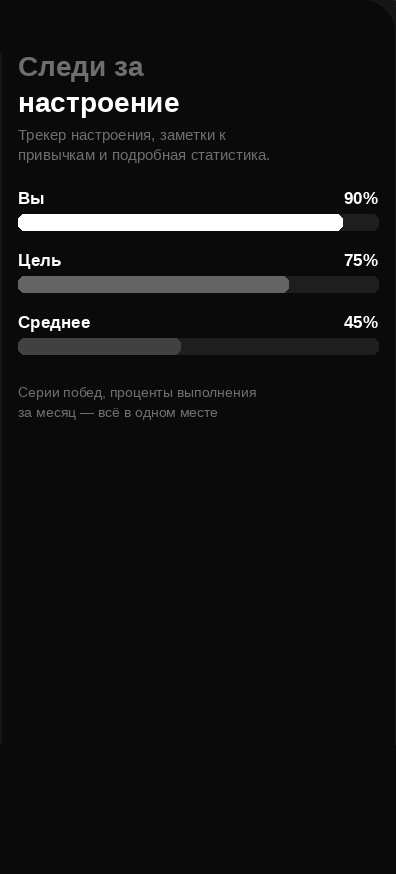
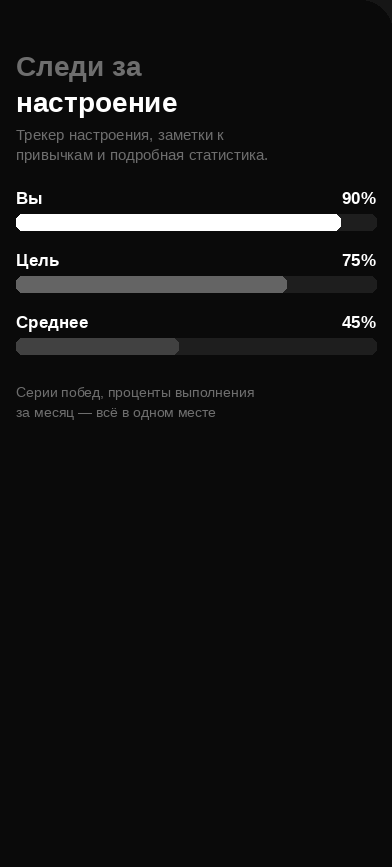
feat(web): premium hero — floating feature chips + cleaner device frames
- re-crop screenshots strictly to the screen interior (no source bezel
  arc), so the CSS device frame no longer shows a frame-in-frame edge
- bigger, more prominent main phone; side phones pushed back, blurred
  and dimmed for depth
- floating glass chips around the phone (streak / partner done / mood /
  achievements) with entrance + float animation, à la reference designs
- nicer frame: dynamic island, side buttons, animated screen sheen
- chips hidden below 1080px and on mobile to avoid overlap

diff --git a/web/index.html b/web/index.html
@@ -73,15 +73,36 @@ img{max-width:100%;display:block}
 .btn-lg{padding:16px 28px;font-size:16px}
 
 /* ---------- device frame ---------- */
-.device{position:relative;width:var(--dw,280px);aspect-ratio:396/874;border-radius:42px;
-  background:var(--bezel);padding:9px;
-  box-shadow:0 34px 70px rgba(0,0,0,.55),0 6px 18px rgba(0,0,0,.4),inset 0 1px 1px rgba(255,255,255,.08)}
-.device::before{content:"";position:absolute;top:8px;left:50%;transform:translateX(-50%);
-  width:34%;height:5px;border-radius:3px;background:rgba(255,255,255,.07);z-index:3}
-.device .screen{width:100%;height:100%;border-radius:33px;overflow:hidden;background:#0a0a0a;position:relative}
+.device{position:relative;width:var(--dw,280px);aspect-ratio:392/867;border-radius:46px;
+  background:var(--bezel);padding:10px;
+  box-shadow:0 40px 80px rgba(0,0,0,.6),0 8px 22px rgba(0,0,0,.45),inset 0 1px 1px rgba(255,255,255,.1)}
+/* side buttons */
+.device::before{content:"";position:absolute;left:-2px;top:24%;width:3px;height:46px;border-radius:3px;
+  background:var(--border2);box-shadow:0 64px 0 var(--border2)}
+.device .screen{width:100%;height:100%;border-radius:38px;overflow:hidden;background:#0a0a0a;position:relative}
 .device .screen img{width:100%;height:100%;object-fit:cover;object-position:top center}
-.device .glare{position:absolute;inset:0;border-radius:33px;pointer-events:none;
-  background:linear-gradient(135deg,rgba(255,255,255,.10),transparent 35%);mix-blend-mode:screen}
+/* dynamic island */
+.device .screen::after{content:"";position:absolute;top:9px;left:50%;transform:translateX(-50%);
+  width:30%;height:9px;border-radius:6px;background:#000;z-index:3;opacity:.55}
+.device .glare{position:absolute;inset:0;border-radius:38px;pointer-events:none;overflow:hidden}
+.device .glare::before{content:"";position:absolute;top:-60%;left:-30%;width:60%;height:220%;
+  transform:rotate(18deg);background:linear-gradient(90deg,transparent,rgba(255,255,255,.13),transparent);
+  animation:sweep 7s ease-in-out infinite}
+@keyframes sweep{0%,100%{left:-40%}50%{left:120%}}
+
+/* floating glass chips around hero phone */
+.chip{position:absolute;z-index:6;display:inline-flex;align-items:center;gap:10px;
+  background:color-mix(in srgb,var(--bg2) 86%,transparent);border:1px solid var(--border2);
+  border-radius:15px;padding:10px 14px;font-size:13.5px;font-weight:600;color:var(--text);
+  white-space:nowrap;backdrop-filter:blur(8px);
+  box-shadow:0 18px 40px rgba(0,0,0,.5),inset 0 1px 0 rgba(255,255,255,.06);
+  opacity:0;animation:chipin .8s var(--ease) forwards,floatY 6s ease-in-out infinite}
+.chip .ic{width:30px;height:30px;border-radius:9px;display:grid;place-items:center;font-size:15px;
+  background:var(--accent-soft);color:var(--accent);flex-shrink:0}
+.chip b{font-weight:700}.chip small{display:block;font-size:11px;color:var(--text3);font-weight:500;margin-top:1px}
+@keyframes chipin{from{opacity:0;transform:translateY(16px) scale(.95)}to{opacity:1;transform:none}}
+@keyframes floatY{0%,100%{transform:translateY(0)}50%{transform:translateY(-12px)}}
+@media(max-width:1080px){.chip{display:none}}
 
 /* ---------- nav ---------- */
 header.nav{position:fixed;top:0;left:0;right:0;z-index:50;
@@ -120,12 +141,12 @@ h1{font-size:clamp(40px,7vw,76px);font-weight:900;letter-spacing:-.035em;line-he
 .hero-note{margin-top:18px;font-size:13px;color:var(--text3)}
 
 /* hero stage with layered devices */
-.stage{position:relative;height:640px;margin-top:24px}
+.stage{position:relative;height:700px;margin-top:24px}
 .dev-pos{position:absolute;left:50%;transition:transform .3s var(--ease);
   transform:translate(calc(-50% + var(--tx,0px)),var(--ty,0px)) rotate(var(--rot,0deg))}
-.p-main{--rot:0deg;z-index:3;top:10px}
-.p-left{--rot:-8deg;z-index:2;margin-left:-280px;top:96px;opacity:.92}
-.p-right{--rot:8deg;z-index:2;margin-left:280px;top:96px;opacity:.92}
+.p-main{--rot:0deg;z-index:3;top:14px}
+.p-left{--rot:-10deg;z-index:1;margin-left:-300px;top:150px;opacity:.45;filter:blur(2px)}
+.p-right{--rot:10deg;z-index:1;margin-left:300px;top:150px;opacity:.45;filter:blur(2px)}
 .p-left .device,.p-right .device{box-shadow:0 30px 60px rgba(0,0,0,.6)}
 .floaty{animation:float 6s ease-in-out infinite}
 .p-left .floaty{animation-duration:7s;animation-delay:.4s}
@@ -245,10 +266,10 @@ footer{border-top:1px solid var(--border);padding:56px 0 40px;margin-top:40px}
   .cards{grid-template-columns:1fr}.steps{grid-template-columns:1fr}.steps::before{display:none}
   .cta-band{grid-template-columns:1fr;padding:36px 24px;text-align:center}
   .cta-band .hero-cta{justify-content:center}.cta-img{display:none}
-  .stage{height:560px;display:flex;justify-content:center}
-  .p-left,.p-right{display:none}
+  .stage{height:600px;display:flex;justify-content:center}
+  .p-left,.p-right,.chip{display:none}
   .p-main{position:relative;left:auto;margin:0 auto;top:0;transform:none}
-  .p-main .device{--dw:270px!important}
+  .p-main .device{--dw:275px!important}
   .mobile-menu{position:fixed;inset:64px 0 auto 0;background:var(--bg);border-bottom:1px solid var(--border);
     z-index:49;display:none;flex-direction:column;padding:18px 24px 28px}
   .mobile-menu.open{display:flex}
@@ -297,9 +318,17 @@ footer{border-top:1px solid var(--border);padding:56px 0 40px;margin-top:40px}
     </div>
     <div class="hero-note reveal" style="transition-delay:.24s" data-i18n="hero_note">Бесплатно · Гостевой режим без регистрации</div>
     <div class="stage" id="stage">
-      <div class="dev-pos p-left" data-depth="12"><div class="device floaty" style="--dw:205px"><div class="screen"><img src="img/phone-habits.png" alt=""/><span class="glare"></span></div></div></div>
-      <div class="dev-pos p-right" data-depth="12"><div class="device floaty" style="--dw:205px"><div class="screen"><img src="img/phone-mood.png" alt=""/><span class="glare"></span></div></div></div>
-      <div class="dev-pos p-main" data-depth="22"><div class="device floaty" style="--dw:280px"><div class="screen"><img src="img/phone-today.png" alt="PathTogether — сегодня"/><span class="glare"></span></div></div></div>
+      <div class="dev-pos p-left" data-depth="10"><div class="device floaty" style="--dw:200px"><div class="screen"><img src="img/phone-habits.png" alt=""/><span class="glare"></span></div></div></div>
+      <div class="dev-pos p-right" data-depth="10"><div class="device floaty" style="--dw:200px"><div class="screen"><img src="img/phone-mood.png" alt=""/><span class="glare"></span></div></div></div>
+      <div class="dev-pos p-main" data-depth="20"><div class="device floaty" style="--dw:300px"><div class="screen"><img src="img/phone-today.png" alt="PathTogether — сегодня"/><span class="glare"></span></div></div></div>
+      <div class="chip" style="top:78px;left:5%;animation-delay:.2s" data-depth="46">
+        <span class="ic">🔥</span><span><b data-i18n="chip_streak_t">Серия 7 дней</b><small data-i18n="chip_streak_s">вместе с Анной</small></span></div>
+      <div class="chip" style="top:360px;left:0%;animation-delay:.5s" data-depth="60">
+        <span class="ic">✓</span><span><b data-i18n="chip_partner_t">Анна выполнила</b><small data-i18n="chip_partner_s">Утренняя пробежка</small></span></div>
+      <div class="chip" style="top:54px;right:6%;animation-delay:.35s" data-depth="46">
+        <span class="ic">😊</span><span><b data-i18n="chip_mood_t">Настроение дня</b><small data-i18n="chip_mood_s">90% за неделю</small></span></div>
+      <div class="chip" style="top:330px;right:1%;animation-delay:.65s" data-depth="60">
+        <span class="ic">🏆</span><span><b data-i18n="chip_ach_t">+20 достижений</b><small data-i18n="chip_ach_s">за серии и цели</small></span></div>
     </div>
   </div>
 </section>
@@ -475,6 +504,10 @@ const I18N={en:{
  hero_badge:"Shared habit tracker",
  hero_lead:"Build good habits with a partner, friend or team. See each other's progress in real time — and never let down the ones beside you.",
  hero_cta1:"Open in browser",hero_cta2:"Download for Android",hero_note:"Free · Guest mode, no sign-up required",
+ chip_streak_t:"7-day streak",chip_streak_s:"together with Anna",
+ chip_partner_t:"Anna completed",chip_partner_s:"Morning run",
+ chip_mood_t:"Mood of the day",chip_mood_s:"90% this week",
+ chip_ach_t:"+20 achievements",chip_ach_s:"for streaks & goals",
  proof_lang:"languages",proof_ach:"achievements",proof_theme:"Dark & light theme",proof_bio:"Biometric unlock",proof_realtime:"Real-time progress",proof_widget:"Home-screen widget",proof_qr:"Invite by QR",
  feat_eyebrow:"Features",feat_title:"Everything to stay on track together",feat_sub:"Not just a tracker — real support between close people.",
  f1_t:"Move as a pair",f1_p:"Create a pair or group and invite a partner via link or QR code. You instantly see what they did today.",
